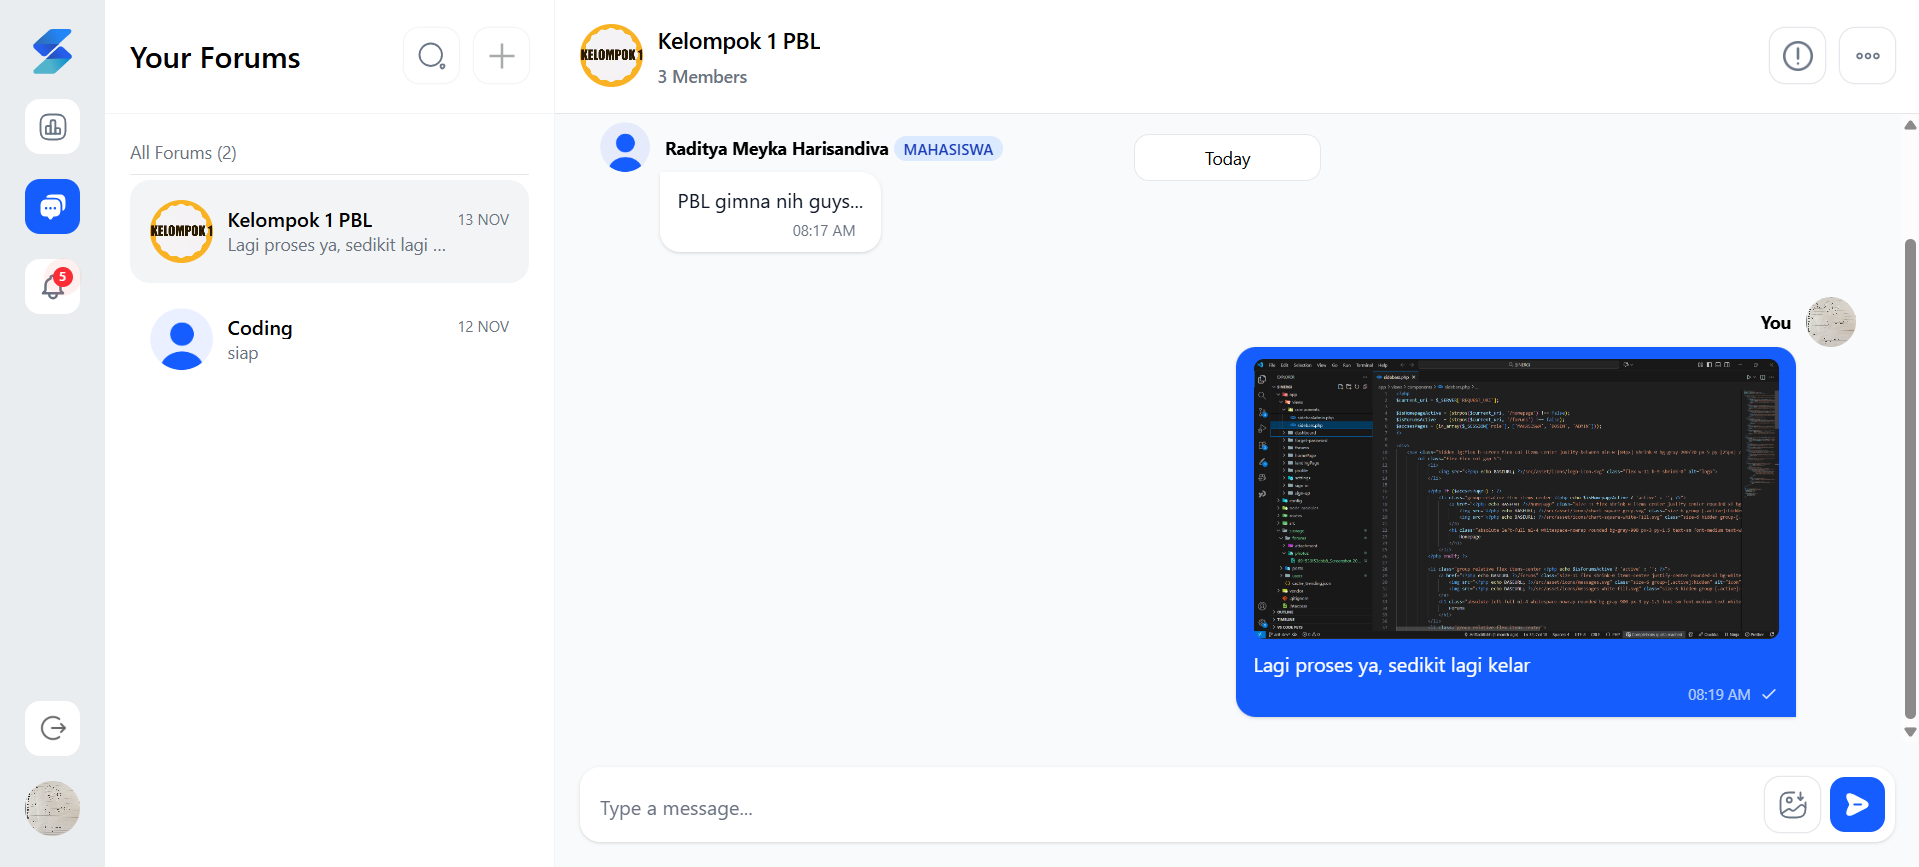
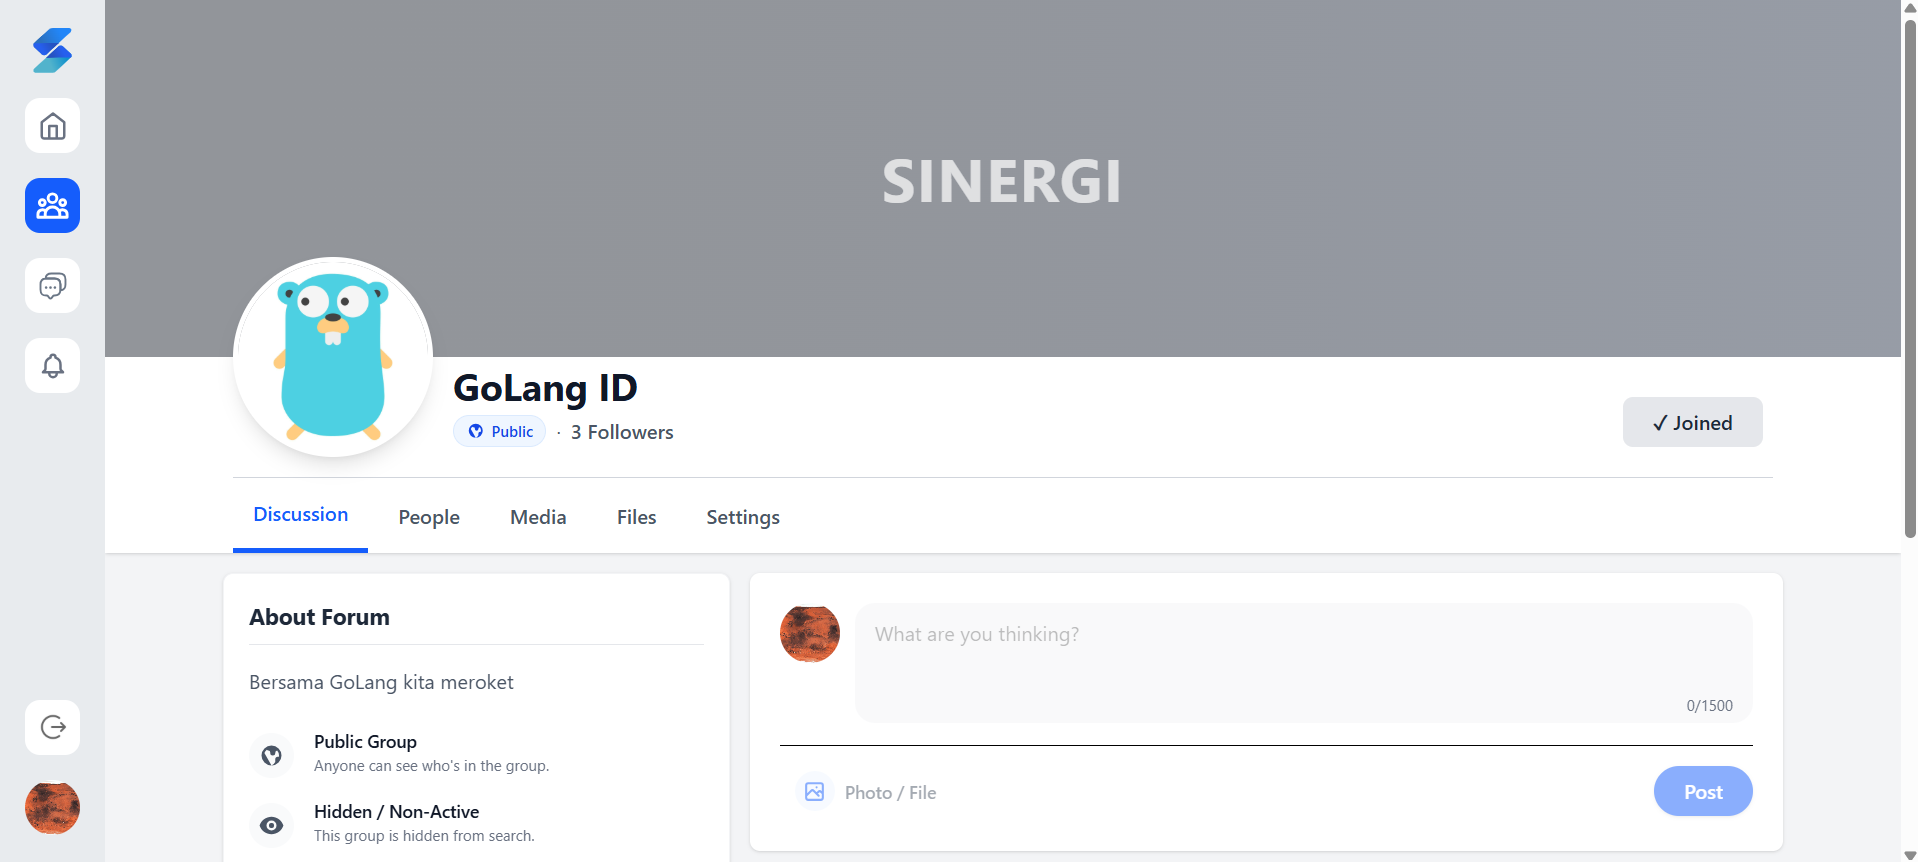
GILA KEREN BANGET WOI

diff --git a/app/views/forum/detail/topic/index.php b/app/views/forum/detail/topic/index.php
@@ -99,6 +99,7 @@ $iconUrl = !empty($forumById['PATH_PHOTO'])
             $allMedia = $topic['MEDIA'] ?? [];
             $images = array_filter($allMedia, fn($m) => $m['MEDIA_TYPE'] === 'IMAGE');
             $files = array_filter($allMedia, fn($m) => $m['MEDIA_TYPE'] === 'FILE');
+           
 
             // FIX: Get IS_LIKED from database
             $isLikedByUser = !empty($topic['IS_LIKED']);
@@ -200,22 +201,22 @@ $iconUrl = !empty($forumById['PATH_PHOTO'])
 
                 <!-- Media Gallery -->
                 <?php if (!empty($images)): ?>
-                    <div class="bg-gradient-to-b from-gray-200 to-white mb-2 -mx-4 sm:mx-0">
-                        <div class="swiper myPostSwiper w-full rounded-lg overflow-hidden" style="max-height: 500px;">
+                    <div class="mb-2 w-full bg-gray-100 overflow-hidden">
+
+                        <div class="swiper myPostSwiper swiper-container-fixed">
                             <div class="swiper-wrapper">
                                 <?php foreach ($images as $img): ?>
-                                    <div class="swiper-slide flex justify-center items-center bg-gray-100" style="max-height: 500px;">
+                                    <div class="swiper-slide">
                                         <img src="<?= BASEURL ?>/storage/forums/topics/<?= $img['MEDIA_PATH'] ?>"
                                             loading="lazy"
-                                            style="max-height: 500px; max-width: 100%;"
-                                            class="object-contain">
+                                            alt="Post Image">
                                     </div>
                                 <?php endforeach; ?>
                             </div>
 
                             <?php if (count($images) > 1): ?>
-                                <div class="swiper-button-next hidden sm:flex text-white bg-black/30 backdrop-blur-sm rounded-full w-10 h-10 items-center justify-center hover:bg-black/50 transition-all after:text-lg"></div>
-                                <div class="swiper-button-prev hidden sm:flex text-white bg-black/30 backdrop-blur-sm rounded-full w-10 h-10 items-center justify-center hover:bg-black/50 transition-all after:text-lg"></div>
+                                <div class="swiper-button-next hidden sm:flex text-white bg-black/30 backdrop-blur-sm rounded-full w-10 h-10 items-center justify-center hover:bg-black/50 transition-all after:text-lg z-[10]"></div>
+                                <div class="swiper-button-prev hidden sm:flex text-white bg-black/30 backdrop-blur-sm rounded-full w-10 h-10 items-center justify-center hover:bg-black/50 transition-all after:text-lg z-[10]"></div>
                                 <div class="swiper-pagination !bottom-3"></div>
                             <?php endif; ?>
                         </div>

diff --git a/app/views/components/forum/tabsMedia.php b/app/views/components/forum/tabsMedia.php
@@ -159,7 +159,7 @@
 
         renderGrid: function() {
             const grid = document.getElementById('media-grid');
-            if (!grid) return; 
+            if (!grid) return;
 
             grid.innerHTML = '';
 
@@ -213,7 +213,26 @@
             if (modalDate) modalDate.textContent = item.FORMATTED_DATE || '';
 
             const modalCaption = document.getElementById('modal-caption');
-            if (modalCaption) modalCaption.textContent = item.TOPIC_CONTENT || '';
+            if (modalCaption) {
+                modalCaption.innerHTML = '';
+
+                const fullText = item.TOPIC_CONTENT || '';
+                const maxLength = 200;
+
+                if (fullText.length > maxLength) {
+                    const textNode = document.createTextNode(fullText.substring(0, maxLength) + '... ');
+                    modalCaption.appendChild(textNode);
+
+                    const seeMoreLink = document.createElement('a');
+                    seeMoreLink.href = `${this.baseUrl}/forum/topic/${item.TOPIC_ID}`;
+                    seeMoreLink.textContent = 'See more';
+                    seeMoreLink.className = 'text-blue-600 font-medium hover:underline ml-1 cursor-pointer';
+
+                    modalCaption.appendChild(seeMoreLink);
+                } else {
+                    modalCaption.textContent = fullText;
+                }
+            }
 
             this.setupRoleBadge(item);
 
@@ -247,7 +266,7 @@
             if (userRole) {
                 const roleClass = roleClasses[userRole] || 'bg-gray-100 text-gray-800';
                 roleElement.className = `text-xs font-medium px-2 py-0.5 rounded-sm ${roleClass}`;
-                roleElement.textContent = userRole; 
+                roleElement.textContent = userRole;
                 roleElement.style.display = 'inline-block';
             } else {
                 roleElement.style.display = 'none';

diff --git a/app/views/components/forum/tabsFiles.php b/app/views/components/forum/tabsFiles.php
@@ -174,8 +174,26 @@
 
                 if (group.topic.TOPIC_CONTENT) {
                     const content = document.createElement('p');
-                    content.className = 'text-gray-700 mb-4 text-sm italic';
-                    content.textContent = group.topic.TOPIC_CONTENT;
+                    content.className = 'text-gray-700 mb-4 text-sm leading-relaxed whitespace-pre-wrap break-words';
+
+                    const fullText = group.topic.TOPIC_CONTENT;
+                    const maxLength = 200;
+
+                    if (fullText.length > maxLength) {
+                        content.textContent = fullText.substring(0, maxLength) + '... ';
+
+                        // Buat element Link 'See more'
+                        const seeMoreLink = document.createElement('a');
+                        seeMoreLink.href = BASE_URL + '/forum/topic/' + group.topic.TOPIC_ID;
+                        seeMoreLink.textContent = 'See more';
+                        seeMoreLink.className = 'text-blue-600 font-medium hover:underline ml-1 cursor-pointer';
+
+                        // Masukkan link ke dalam paragraf
+                        content.appendChild(seeMoreLink);
+                    } else {
+                        content.textContent = fullText;
+                    }
+
                     topicDiv.appendChild(content);
                 }
 

diff --git a/app/views/components/forum/topics.php b/app/views/components/forum/topics.php
@@ -121,7 +121,7 @@ if (isset($postLimit) && $postLimit !== null && count($topics) > $postLimit) {
             </div>
 
             <?php if (!empty($images)): ?>
-                <div class="mb-2 w-full bg-gray-100 overflow-hidden border border-gray-200">
+                <div class="mb-2 w-full bg-gray-100 overflow-hidden">
 
                     <div class="swiper myPostSwiper swiper-container-fixed">
                         <div class="swiper-wrapper">

diff --git a/app/views/landingPage/index.php b/app/views/landingPage/index.php
@@ -62,7 +62,7 @@
                                 <div class="w-3 h-3 rounded-full bg-green-500"></div>
                             </div>
                             <div class="flex-1 bg-gray-100 rounded px-3 py-1 text-xs text-gray-500 mx-4">
-                                https://sinergi.com
+                                <?= BASEURL ?>
                             </div>
                         </div>
 
